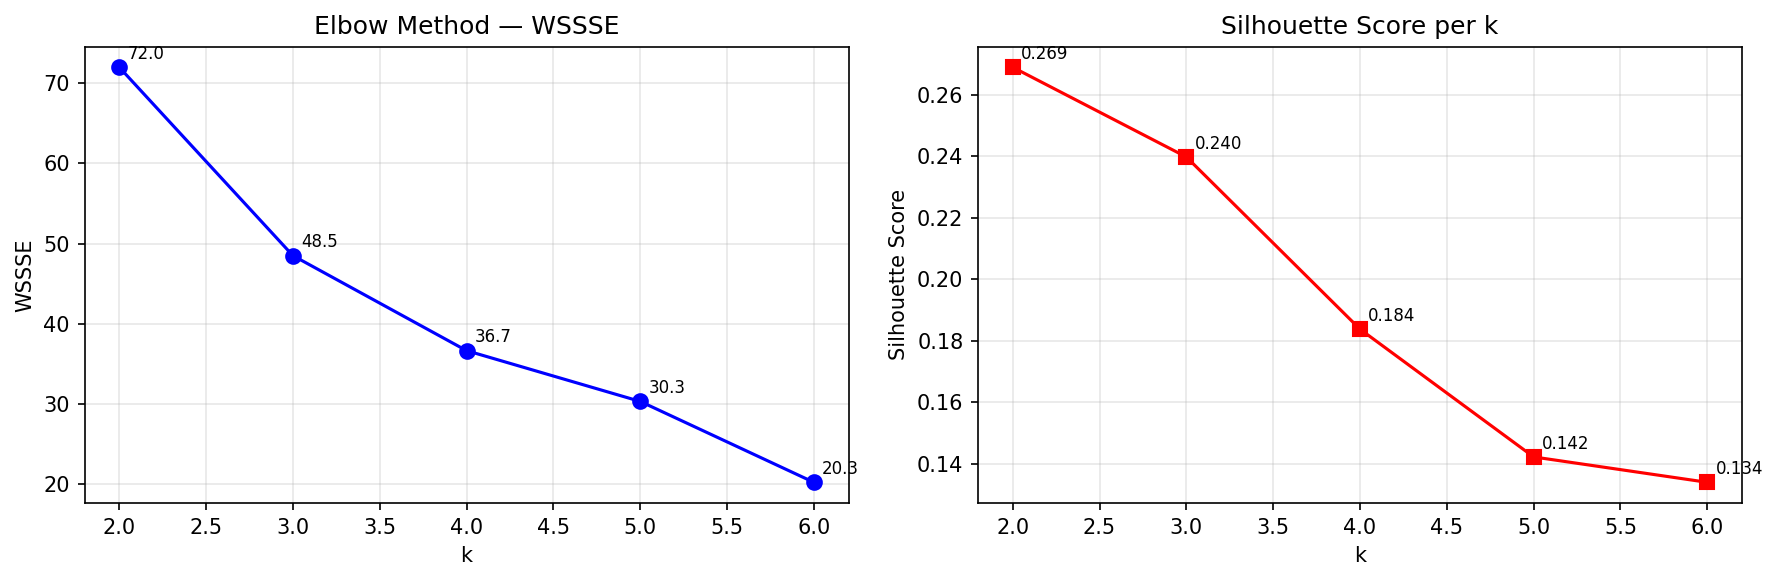
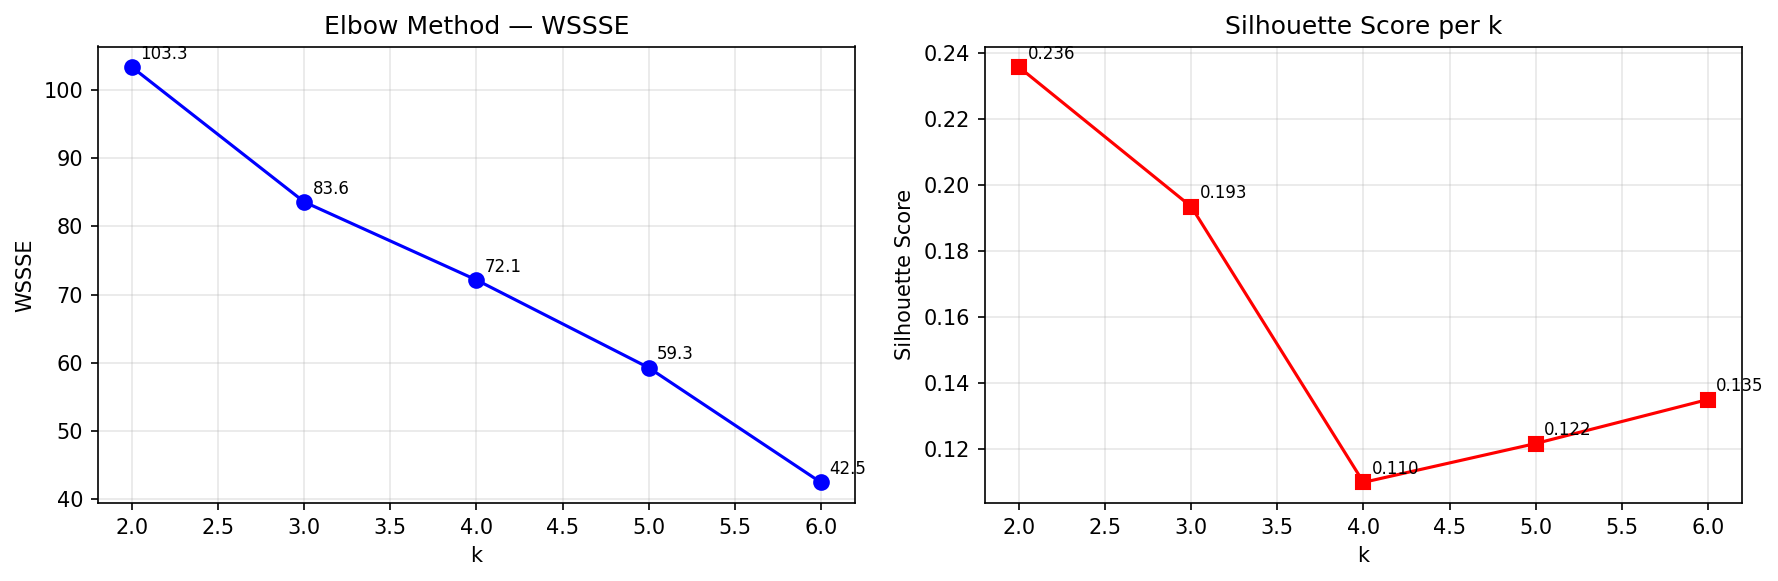
Remove .env, update Spark jobs and results
Remove committed .env and add it to .gitignore to avoid leaking environment configuration. Change Spark job defaults to use the cluster master (SPARK_MASTER -> spark://spark-master:7077). Fix SQL aggregation cast by using SUM(CAST(CANCELLED AS LONG)) to ensure correct typing. Refresh clustering outputs: update clustering.csv with new metrics (std_dep_delay, on_time_rate, diverted_rate, avg_delay_recovery) and regenerate clustering_elbow.png and clustering_pca.png.

diff --git a/spark/jobs/clustering.py b/spark/jobs/clustering.py
@@ -47,7 +47,7 @@ from pyspark.ml.clustering import KMeans
 from sklearn.metrics import silhouette_score
 
 # ── Configurazione ────────────────────────────────────────────────────────────
-SPARK_MASTER      = os.getenv("SPARK_MASTER", "local[2]")
+SPARK_MASTER      = os.getenv("SPARK_MASTER", "spark://spark-master:7077")
 HDFS_INPUT        = "hdfs://namenode:9000/sabd/processed/"
 HDFS_OUTPUT       = "hdfs://namenode:9000/sabd/results/clustering/"
 LOCAL_OUT_CSV     = "/opt/spark/jobs/results/clustering.csv"

diff --git a/spark/jobs/q1_sql.py b/spark/jobs/q1_sql.py
@@ -45,7 +45,7 @@ result = spark.sql("""
         YEAR,
         MONTH,
         COUNT(*)                                                        AS total_flights,
-        CAST(SUM(CANCELLED) AS BIGINT)                                  AS cancelled_flights,
+        SUM(CAST(CANCELLED AS LONG))                                    AS cancelled_flights,
         ROUND(SUM(CANCELLED) / COUNT(*) * 100, 4)                      AS cancellation_rate_pct,
         ROUND(AVG(CASE WHEN CANCELLED = 0 THEN DEP_DELAY END), 4)      AS avg_dep_delay,
         ROUND(MIN(CASE WHEN CANCELLED = 0 THEN DEP_DELAY END), 4)      AS min_dep_delay,
